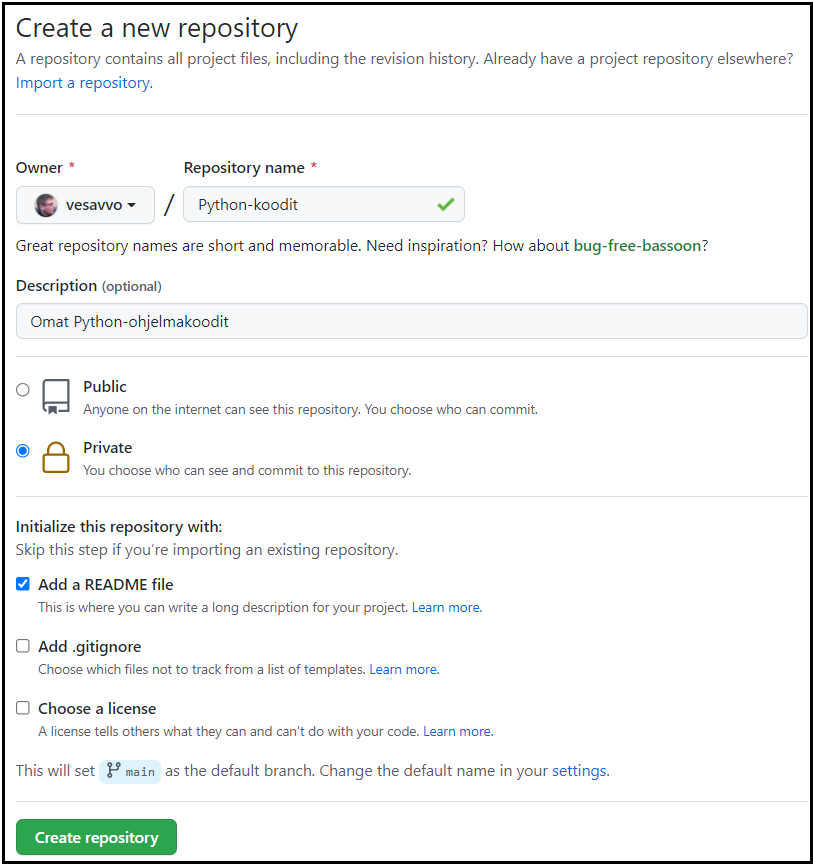
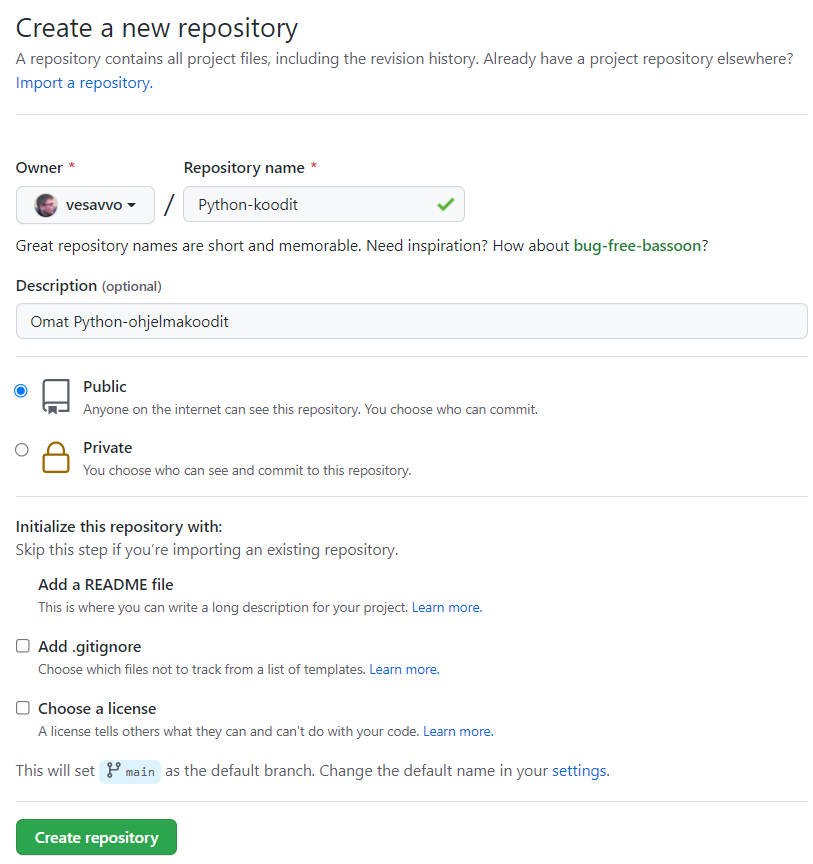
add vscode git & github instructions, fix links in readme

Changed region(s): [[0.0, 0.0, 1.0, 1.0]]

diff --git a/fi/01b_Versionhallinnan_käyttöönotto.md b/fi/01b_Versionhallinnan_käyttöönotto.md
@@ -6,35 +6,24 @@ Tätä varten otetaan käyttöön versionhallinta.
 
 ## Git ja GitHub
 
-Opintojaksolla (ja ammattimaisessa ohjelmistokehityksessä usein) käytetään Git-nimistä hajautettua versionhallintaa.
-Hajautettu versionhallinta tarkoittaa sitä, että ohjelmakoodien yhteisestä tallennuspaikasta - eli repositoriosta - 
-luodaan paikallisia kopioita versionhallinnan käyttäjien omille tietokoneille.
-Ajantasaiset tiedot haetaan repositoriosta työskentelyn alkaessa (tästä käytetään termiä pull), ja tehdyt
-muutokset päivitetään repositorioon (tätä kutsutaan termillä push).
+Opintojaksolla (ja ammattimaisessa ohjelmistokehityksessä usein) käytetään Git-nimistä hajautettua versionhallintaa. Hajautettu versionhallinta tarkoittaa sitä, että ohjelmakoodien yhteisestä tallennuspaikasta - eli repositoriosta - luodaan paikallisia kopioita versionhallinnan käyttäjien omille tietokoneille. Ajantasaiset tiedot päivitetään usein yhteisestä jaetusta repositoriosta omalla koneella olevaan paikalliseen repositorioon työskentelyn alkaessa (tästä käytetään termiä *pull*). Koodiin tehdyt muutokset tallennetaan uutena versiona paikalliseen repositorioon ( käytetään termiä *commit*) ja voidaan päivittää takaisin jaettuun repositorioon (tätä kutsutaan termillä *push*).
 
-GitHub on kaikkien saatavilla oleva verkkosivusto, johon Git-projektien ohjelmakoodit voidaan tallentaa.
-Se on myös maailman suurin tähän tarkoitukseen kehitetty sivusto, ja käytännössä jokainen
-ohjelmointialan ammattilainen käyttää tavalla tai toisella GitHubia.
+GitHub on kaikkien saatavilla oleva verkkosivusto, johon Git-projektien ohjelmakoodit (repositorio) voidaan tallentaa ja jakaa. Se on myös maailman suurin tähän tarkoitukseen kehitetty sivusto, ja käytännössä jokainen ohjelmointialan ammattilainen käyttää tavalla tai toisella GitHubia.
 
-Jotta voit käyttää GitHubia, rekisteröidy sen käyttäjäksi osoitteessa https://github.com/.
+Jotta voit käyttää GitHubia, rekisteröidy sen käyttäjäksi osoitteessa <https://github.com/>.
 
-Kun olet luonut itsellesi käyttäjätilin GitHubiin, voit luoda sinne repositorioita eli tallennuspaikkoja
-projekteille.
+Kun olet luonut itsellesi käyttäjätilin GitHubiin, voit luoda sinne repositorioita eli tallennuspaikkoja projekteille.
 
 Voit luoda omille Python-koodeillesi repositorion kahdella tavalla: joko PyCharm-kehittimen kautta tai suoraan GitHubista.
 
 ## Repositorion luominen PyCharm-kehittimen kautta (suositeltava tapa)
 
-Repositorion luominen olemassaolevan PyCharmilla tehdyn projektin kautta on suoriteltavaa, koska tällöin virtuaaliympäristön määritykset
-voidaan tehdä helposti projektia luotaessa. Yhteys versionhallintaan määritetään näin:
+Repositorion luominen olemassaolevan PyCharmilla tehdyn projektin kautta on suoriteltavaa, koska tällöin virtuaaliympäristön määritykset voidaan tehdä helposti projektia luotaessa. Yhteys versionhallintaan määritetään näin:
 
-1. Valitse GitHub-tili, jota käytät. Paina **Ctrl/Alt S** tai **CMD/,**. Valitse **Version Control / Github /Add**, ja syötä
-GitHub-kirjautumistietosi.
-2. Valitse PyCharm-kehittimessä 
-**VCS / Share project on GitHub**. Rastita **Private**, jotta saat yksityisen repositorion.
+1. Valitse GitHub-tili, jota käytät. Paina **Ctrl/Alt S** tai **CMD/,**. Valitse **Version Control / Github /Add**, ja syötä GitHub-kirjautumistietosi.
+2. Valitse PyCharm-kehittimessä  **VCS / Share project on GitHub**. Julkiset repositoriot soveltuvat yleensä koulutöihin, mutta jos haluat repositoriosta yksityisen, rastita **Private**.
 3. Valitse repositorioon aluksi tulevat tiedostot. Voit lisätä tiedostoja myöhemmin.
-4. Kun yhteys GitHub-repositorioon on muodostettu,
-ilmestyy PyCharm-kehittimen valikkoriville uusi Git-valikko. Lisää haluamiasi tiedostoja toiminnolla **Git/Add**. PyCharm kysyy aina uutta tiedostoa luotaessa, liitetäänkö se repositorioon.
+4. Kun yhteys GitHub-repositorioon on muodostettu, ilmestyy PyCharm-kehittimen valikkoriville uusi Git-valikko. Lisää haluamiasi tiedostoja toiminnolla **Git/Add**. PyCharm kysyy aina uutta tiedostoa luotaessa, liitetäänkö se repositorioon.
 
 ## Repositorion luominen GitHubissa (vaihtoehtoinen tapa)
 
@@ -48,22 +37,14 @@ Vaihtoehtoisesti voit luoda repositorion GitHub-sivustolla:
 
 Tämän jälkeen PyCharm-kehittimelle annetaan pääsy GitHubiin ja täsmennetään käytettävä repositorio:
 
-1. Valitse GitHub-tili, jota käytät. Paina **Ctrl/Alt S** tai **CMD/,**. Valitse **Version Control / Github /Add**, ja syötä
-GitHub-kirjautumistietosi.
-
-2. Ota repositorio käyttöön Python-projektissasi. valitse PyCharm-kehittimessä **VCS / Get from
-Version Control**, ja hae GitHubissa luomasi Git-repositorio napsauttamalla **Clone**. PyCharm luo uuden 
-projektin, joka käyttää GitHub-reposiota.
+1. Valitse GitHub-tili, jota käytät. Paina **Ctrl/Alt S** tai **CMD/,**. Valitse **Version Control / Github /Add**, ja syötä GitHub-kirjautumistietosi.
+2. Ota repositorio käyttöön Python-projektissasi. valitse PyCharm-kehittimessä **VCS / Get from Version Control**, ja hae GitHubissa luomasi Git-repositorio napsauttamalla **Clone**. PyCharm luo uuden projektin, joka käyttää GitHub-reposiota.
 
 Tässäkin tapauksessa PyCharm-kehittimen valikkoriville ilmestyy uusi Git-valikko.
 
 ## Repositorion käyttö
 
-Tarkastellaan tässä vaiheessa GitHubin käyttöä yhden kehittäjän näkökulmasta. Tällöin voimme olettaa, että eri kehittäjät
-eivät käytä samoja tiedostoja, ja tästä aiheutuvia samanaikaisen muokkauksen ongelmia ei esiinny. Oletamme myös, että
-meille ei synny tarvetta jakaa kehitysprojektia eri kehityshaaroihin. GitHubin edistyneeseen
-käyttöön kehitystiimin yhteistyöalustana
-kannattaa perehtyä vasta myöhemmin projektityön alkaessa.
+Tarkastellaan tässä vaiheessa GitHubin käyttöä yhden kehittäjän näkökulmasta. Tällöin voimme olettaa, että eri kehittäjät eivät käytä samoja tiedostoja, ja tästä aiheutuvia samanaikaisen muokkauksen ongelmia ei esiinny. Oletamme myös, että meille ei synny tarvetta jakaa kehitysprojektia eri kehityshaaroihin. GitHubin edistyneeseen käyttöön kehitystiimin yhteistyöalustana kannattaa perehtyä vasta myöhemmin projektityön alkaessa.
 
 Työskentelyssä kannattaa ottaa tavaksi seuraavat käytännöt:
 
@@ -73,10 +54,7 @@ Työskentelyssä kannattaa ottaa tavaksi seuraavat käytännöt:
 
 Voit tutkia kehityshaaraa tallennuspisteineen GitHub-palvelussa.
 
-Aina kun luot uuden tiedoston, PyCharm kysyy, otetaanko se mukaan versionhallintaan. Kaikki lähdekoodit, kuvat ja muut
-arvokkaat tiedostot on syytä tallentaa GitHubiin. Toisaalta konfiguraatiotiedostot ja muu ajoympäristöön liittyvä
-silppu kannattaa jättää versionhallinnan ulkopuolelle. Myöskään salasanoja sisältäviä tiedostoja ei tietoturvasyistä
-tule tallentaa versionhallintaan.
+Aina kun luot uuden tiedoston, PyCharm kysyy, otetaanko se mukaan versionhallintaan. Kaikki lähdekoodit, kuvat ja muut arvokkaat tiedostot on syytä tallentaa GitHubiin. Toisaalta konfiguraatiotiedostot ja muu ajoympäristöön liittyvä silppu kannattaa jättää versionhallinnan ulkopuolelle. Myöskään salasanoja sisältäviä tiedostoja ei tietoturvasyistä tule tallentaa versionhallintaan.
 
 ## Tehtävien palautus GitHubin avulla
 
@@ -84,6 +62,6 @@ Palauta Omassa oleviin tehtäviin aina suoraan kyseisen moduulin tehtävien ratk
 
 ![Linkin kopioiminen](img/copy-task-link.png)
 
-Jotta opettajat näkevät tiedostosi GitHubissa, sinun pitää lisätä opettajien käyttäjätunnukset GitHub-projektiisi käyttäjiksi. Tämä tapahtuu _Settings_-välilehdeltä kohdasta _Collaborators_. Opettajien tunnukset kerrotaan Oma-työtilan kautta. Vaihtoehtoisesti voit määritellä projektisi näkyvyyden julkiseksi (public).
+**Jos repositoriosi on yksityinen:** Jotta opettajat näkevät tiedostosi GitHubissa, sinun pitää lisätä opettajien käyttäjätunnukset GitHub-projektiisi käyttäjiksi. Tämä tapahtuu *Settings*-välilehdeltä kohdasta *Collaborators*. Opettajien tunnukset kerrotaan Oma-työtilan kautta. Vaihtoehtoisesti voit muuttaa projektisi näkyvyyden julkiseksi (public) projektin asetuksista.
 
 ![Käyttäjien lisääminen](img/add-collaborator.png)

diff --git a/fi/01b_Versionhallinnan_kayttoonotto_vscode.md b/fi/01b_Versionhallinnan_kayttoonotto_vscode.md
@@ -1,0 +1,87 @@
+# Versionhallinnan käyttöönotto
+
+Ohjelmistot rakentuvat vaihe vaiheelta ja pala palalta. Ohjelmistoja tehdään usein tiimityönä, ja tiimin jäsenten on päästävä käsiksi samaan ohjelmakoodiin. Ohjelmakoodista syntyy kehitystyön aikana useita versioita, ja joskus on tarve palata aiempaan versioon. On myös tärkeää varmistaa, että kerran kirjoitettu ohjelmakoodi ei vahingossa tuhoudu eikä katoa.
+
+Tätä varten otetaan käyttöön versionhallinta.
+
+## Git ja GitHub
+
+Opintojaksolla (ja ammattimaisessa ohjelmistokehityksessä usein) käytetään Git-nimistä hajautettua versionhallintaa. Hajautettu versionhallinta tarkoittaa sitä, että ohjelmakoodien yhteisestä tallennuspaikasta - eli repositoriosta - luodaan paikallisia kopioita versionhallinnan käyttäjien omille tietokoneille. Ajantasaiset tiedot päivitetään usein yhteisestä jaetusta repositoriosta omalla koneella olevaan paikalliseen repositorioon työskentelyn alkaessa (tästä käytetään termiä *pull*). Koodiin tehdyt muutokset tallennetaan uutena versiona paikalliseen repositorioon ( käytetään termiä *commit*) ja voidaan päivittää takaisin jaettuun repositorioon (tätä kutsutaan termillä *push*).
+
+GitHub on kaikkien saatavilla oleva verkkosivusto, johon Git-projektien ohjelmakoodit (repositorio) voidaan tallentaa ja jakaa. Se on myös maailman suurin tähän tarkoitukseen kehitetty sivusto, ja käytännössä jokainen ohjelmointialan ammattilainen käyttää tavalla tai toisella GitHubia.
+
+Jotta voit käyttää GitHubia, rekisteröidy sen käyttäjäksi osoitteessa <https://github.com/>.
+
+Kun olet luonut itsellesi käyttäjätilin GitHubiin, voit luoda sinne repositorioita eli tallennuspaikkoja projekteille.
+
+## Repositorion luominen GitHubissa
+
+1. Rekisteröidy GitHubin käyttäjäksi osoitteessa <https://github.com/>.
+1. Kirjauduttuasi sisään paina **Repositories**-otsikon vieressä olevaa **New**-painiketta.
+1. Tee itsellesi oma repositorio alla olevan kuvan mukaisesti ja anna sen nimeksi esimerkiksi `python-harjoitukset`.
+1. Paina lopuksi **Create repository** -painiketta.
+
+![Uuden repositorion luonti](img/gh-new-repo.png)
+
+Tämän jälkeen VS Code-kehittimessä oleva projekti pitää liitetään GitHub-projektiin
+
+## Git ja Visual Studio Code
+
+Ennen kuin voit käyttää Git-versionhallintaa, sinun on asennettava Git-ohjelmisto omalle tietokoneellesi. Lataa ja asenna se osoitteesta <https://git-scm.com/downloads> ohjeiden mukaisesti.
+
+Gitin asennuksen jälkeen voit ottaa sen käyttöön Python-projektissasi:
+
+1. Avaa VS Code ja avaa projekti, jonka haluat liittää Git-versionhallintaan.
+1. Avaa terminaali (Terminal) VS Code -editorissa.
+1. Alusta uusi Git-repositorio komennolla `git init`.
+1. Määritä käyttäjänimesi komennolla `git config --global user.name "Etunimi Sukunimi"`.
+1. Määritä sähköpostiosoitteesi komennolla `git config --global user.email "sahkoposti@esimerkki.com"`. Sähköpostiosoite on sama, jota käytit rekisteröityessäsi GitHubiin.
+1. Luo `.gitignore`-tiedosto projektin juureen. Lisää tiedostoon rivi `.venv/`, jotta virtuaaliympäristön tiedostot eivät päädy versionhallintaan.
+1. Lisää tiedostot versionhallintaan komennolla `git add .`.
+1. Tee ensimmäinen commit komennolla `git commit -m "Initial commit"`.
+
+Tämän jälkeen paikallinen Git-repositorio on valmis, ja voit liittää sen GitHubissa luomaasi repositorioon, tähän on muutamia eri vaihtoehtoja:
+
+- Yksinkertaisin tapa liittää paikallinen Git-repositorio GitHubissa luomaasi repositorioon on käyttää VS Code -editorin sisäänrakennettua Git-tukea.
+    1. Avaa Command Palette painamalla `Ctrl+Shift+P`.
+    1. Kirjoita kenttään `Publish to GitHub` ja valitse se.
+    1. Seuraa ohjeita.
+- Voit käyttää kirjautumiseen myös GitHubin omaa laajennusta VS Code -editorissa
+    1. Asenna laajennus etsimällä se VS Code -editorin laajennushallinnasta (Extensions) nimellä "GitHub Pull Requests".
+    1. Asennuksen jälkeen kirjaudu sisään GitHub-tilillesi laajennuksen kautta painamalla vasemman laidan palkista GitHub-kuvaketta.
+- Kirjautumisen jälkeen voit liittää paikallisen Git-repositorion GitHub-repositorioon myös komentoriviltä (terminal) seuraavasti:
+    1. Kopioi GitHubissa luomasi repositorion URL-osoite (HTTPS).
+    1. Lisää etärepositorio komennolla `git remote add origin <kopioitu-URL>`.
+    1. Työnnä paikallisen repositorion sisältö GitHubiin komennolla `git push -u origin main`.
+ Kirjaudu VS Code -editorissa sisään GitHubiin  ja valitsemalla **Sign in to GitHub**. Seuraa ohjeita.
+
+TODO: autentikointi ja prosessi testattava "puhtaalla" koneella!
+
+## Repositorion käyttö
+
+Tarkastellaan tässä vaiheessa GitHubin käyttöä yhden kehittäjän näkökulmasta. Tällöin voimme olettaa, että eri kehittäjät eivät käytä samoja tiedostoja, ja tästä aiheutuvia samanaikaisen muokkauksen ongelmia ei esiinny. Oletamme myös, että meille ei synny tarvetta jakaa kehitysprojektia eri kehityshaaroihin. GitHubin edistyneeseen käyttöön kehitystiimin yhteistyöalustana kannattaa perehtyä vasta myöhemmin projektityön alkaessa.
+
+Vs Code -editorissa on sisäänrakennettu Git-tuki, jota kannattaa käyttää versionhallinnan perustoimintoihin. Ne löytyvät editorin vasemman laidan palkista Git-kuvakkeen takaa (tai painamalla näppäinyhdistelmää `Ctrl+Shift+G`).
+
+![Git toiminnot](img/vscode-git.png)
+
+Työskentelyssä kannattaa ottaa tavaksi seuraavat käytännöt:
+
+- Kun aloitat työskentelyn, anna komento **Git / Pull**. Komento hakee mahdolliset muuttuneet tiedot GitHub-palvelussa olevasta repositoriosta.
+- Kun olet saanut uusia tuotoksia aikaan, valitse **Git / Add** toiminnolla tiedostot ja muutokset, jotka haluat mukaan seuraavaan tallennuspisteeseen
+- Sitouta muutokset komennon **Git / Commit** avulla. Muutosten pohjalta syntyy uusi tallennuspiste, johon on mahdollista myöhemmin palata, jos tarvetta ilmenee. Sitouta muutokset aina viimeistään siinä vaiheessa, kun olet lopettamassa työskentelyä. Commit-viestiin kannattaa kirjoittaa lyhyt kuvaus siitä, mitä muutoksia on tehty.
+- Kun lopetat työskentelyn, anna komento **Git / Push**. Komento kopioi paikallisella koneessa olevat sitoutetut muutokset GitHub-palvelussa olevaan repositorioon.
+
+Voit tutkia kehityshaaraa tallennuspisteineen GitHub-palvelussa.
+
+Kaikki lähdekoodit, kuvat ja muut arvokkaat tiedostot on syytä tallentaa GitHubiin. Toisaalta konfiguraatiotiedostot ja muu ajoympäristöön liittyvä silppu kannattaa jättää versionhallinnan ulkopuolelle. Myöskään salasanoja sisältäviä tiedostoja ei tietoturvasyistä tule tallentaa versionhallintaan. Pois jätettävät tiedostot listataan projektiin tallennettavassa `.gitignore`-tiedostossa.
+
+## Tehtävien palautus GitHubin avulla
+
+Palauta Omassa oleviin tehtäviin aina suoraan kyseisen moduulin tehtävien ratkaisuun osoittava linkki. Se onnistuu helpoiten niin, että navigoit selaimella GitHubissa oikeaan kansioon ja kopioit linkin suoraan selaimen osoiteriviltä. Nimeä python-tiedostosi ja kansiosi niin, että niistä voi päätellä suoraan, minkä tehtävien ratkaisut ne sisältävät.
+
+![Linkin kopioiminen](img/copy-task-link.png)
+
+**Jos repositoriosi on yksityinen:** Jotta opettajat näkevät tiedostosi GitHubissa, sinun pitää lisätä opettajien käyttäjätunnukset GitHub-projektiisi käyttäjiksi. Tämä tapahtuu *Settings*-välilehdeltä kohdasta *Collaborators*. Opettajien tunnukset kerrotaan Oma-työtilan kautta. Vaihtoehtoisesti voit muuttaa projektisi näkyvyyden julkiseksi (public) projektin asetuksista.
+
+![Käyttäjien lisääminen](img/add-collaborator.png)

diff --git a/fi/README.md b/fi/README.md
@@ -2,7 +2,8 @@
 
 ## Osa 1: Python-ohjelmoinnin perustaidot
 
-1. [Ensimmäinen ohjelma](01a_Ensimmäinen_ohjelma_vscode.md) sekä [versionhallinnan käyttöönotto (GitHub)](01b_Versionhallinnan_käyttöönotto.md)
+1. [Ensimmäinen ohjelma](01a_Ensimmainen_ohjelma_vscode.md) sekä [versionhallinnan käyttöönotto (GitHub)](01b_Versionhallinnan_kayttoonotto_vscode.md) (Visual Studio Code)  
+[Ensimmäinen ohjelma](01a_Ensimmäinen_ohjelma.md) sekä [versionhallinnan käyttöönotto (GitHub)](01b_Versionhallinnan_käyttöönotto.md) (PyCharm)
 2. [Muuttujat ja vuorovaikutteiset ohjelmat](02_Muuttujat_ja_vuorovaikutteiset_ohjelmat.md)
 3. [Valintarakenne (if)](03_Valintarakenne.md)
 4. [Alkuehdollinen toistorakenne (while)](04_While-toistorakenne.md)
